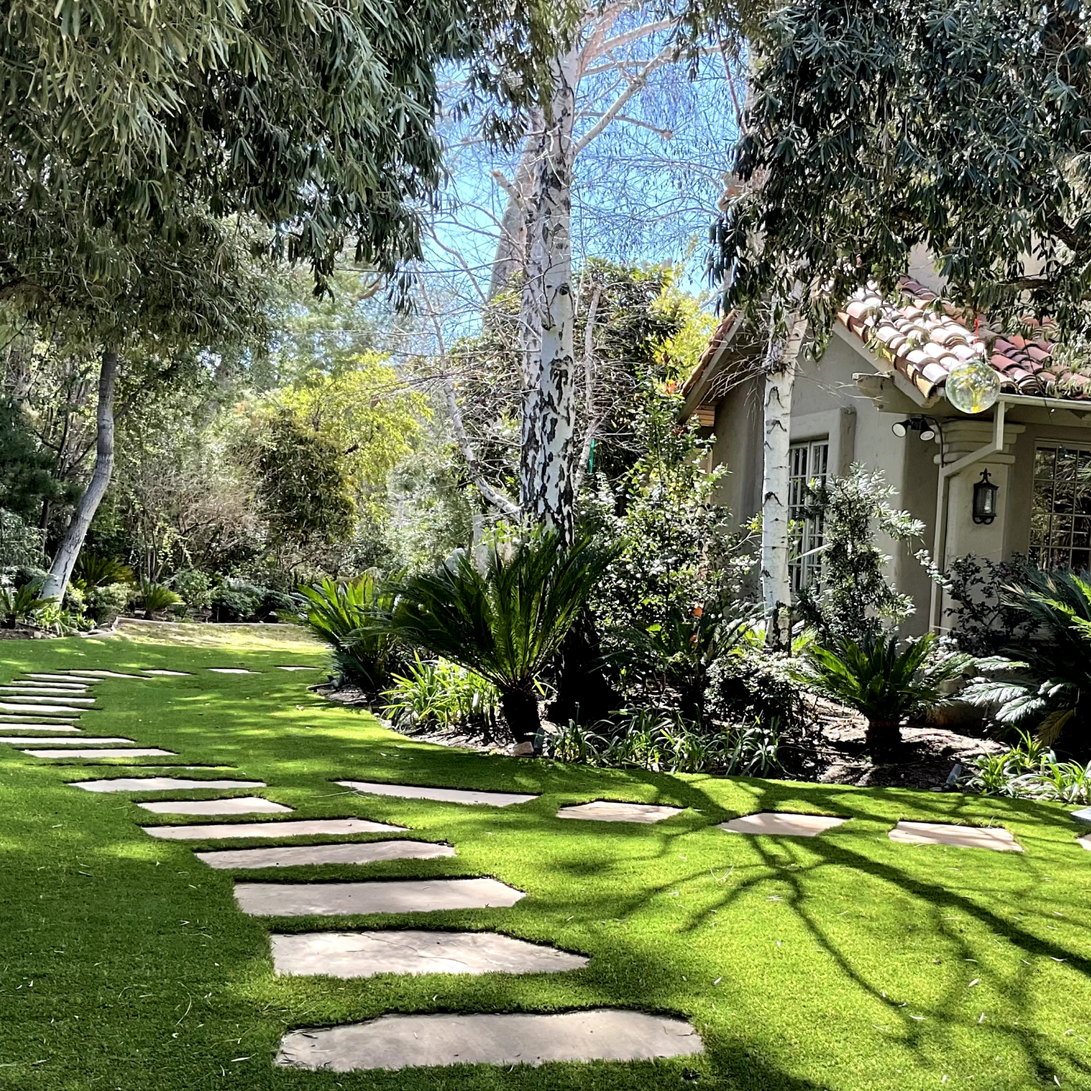
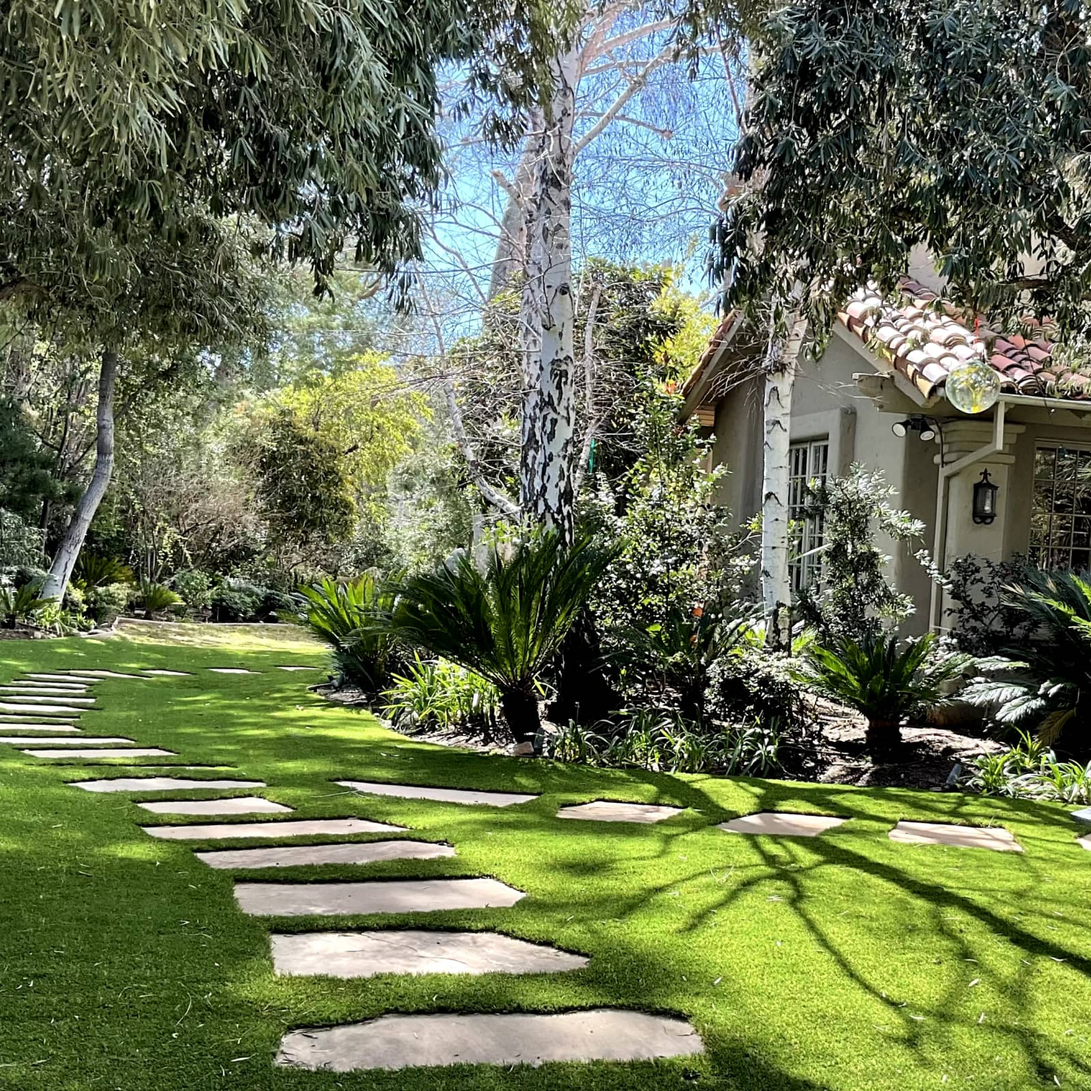
added applications images on home page

diff --git a/wp-content/themes/sgsturf/index.php b/wp-content/themes/sgsturf/index.php
@@ -157,7 +157,7 @@ get_header(); ?>
         <div class="pattern-tag flex gap-2 absolute bottom-5 right-5 md:bottom-10 md:right-10">
           <div class="tag">Landscape</div>
         </div>
-        <img src="<?php echo SGSTURF_IMAGES_DIR; ?>/fpo-home-application-landscape.jpg" alt="Landscape">
+        <img src="<?php echo SGSTURF_IMAGES_DIR; ?>/home-applications-landscape.jpg" alt="Landscape">
       </div>
     </div>
     <div class="content-full-col relative w-1/2 md:w-1/3">
@@ -173,7 +173,7 @@ get_header(); ?>
         <div class="tag">Pet</div>
       </div>
       <div class="content-image">
-        <img src="<?php echo SGSTURF_IMAGES_DIR; ?>/fpo-home-application-pet.jpg" alt="Pet">
+        <img src="<?php echo SGSTURF_IMAGES_DIR; ?>/home-applications-pet.jpg" alt="Pet">
       </div>
     </div>
     <div class="content-full-col relative w-1/2 md:w-1/3">
